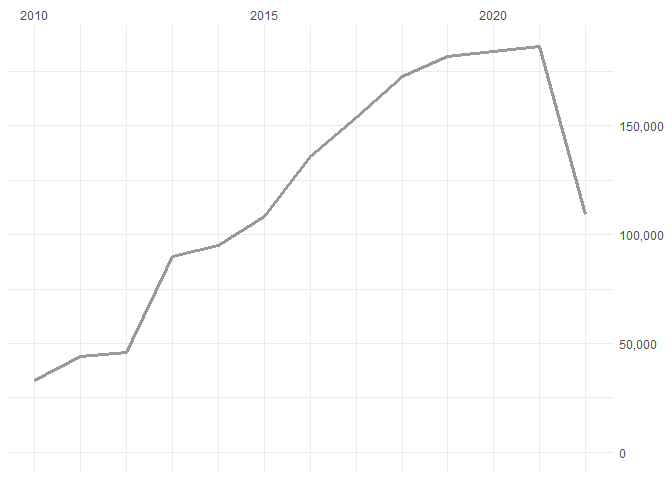
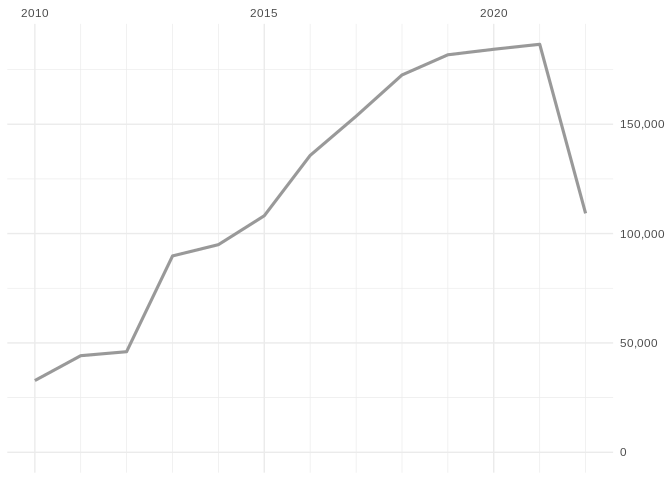
updating data and report

diff --git a/readme.md b/readme.md
@@ -3,25 +3,25 @@
 
 ## Summary
 
-Rendering on 2022-07-31 03:52:50.
+Rendering on 2022-07-31 18:39:02.
 
 ![](figures/unnamed-chunk-1-1.png)<!-- -->![](figures/unnamed-chunk-1-2.png)<!-- -->![](figures/unnamed-chunk-1-3.png)<!-- -->
 
-| fecha_hora |       n |
-|:-----------|--------:|
-| 2022-01-01 | 109,238 |
-| 2021-01-01 | 186,549 |
-| 2020-01-01 | 184,271 |
-| 2019-01-01 | 181,752 |
-| 2018-01-01 | 172,525 |
-| 2017-01-01 | 153,675 |
-| 2016-01-01 | 135,735 |
-| 2015-01-01 | 108,158 |
-| 2014-01-01 |  94,942 |
-| 2013-01-01 |  89,788 |
-| 2012-01-01 |  45,987 |
-| 2011-01-01 |  44,171 |
-| 2010-01-01 |  32,808 |
-| 2009-01-01 |      15 |
-| 2008-01-01 |     335 |
-| 2006-01-01 |     240 |
+| fecha\_hora |       n |
+| :---------- | ------: |
+| 2022-01-01  | 109,238 |
+| 2021-01-01  | 186,549 |
+| 2020-01-01  | 184,271 |
+| 2019-01-01  | 181,752 |
+| 2018-01-01  | 172,525 |
+| 2017-01-01  | 153,675 |
+| 2016-01-01  | 135,735 |
+| 2015-01-01  | 108,158 |
+| 2014-01-01  |  94,942 |
+| 2013-01-01  |  89,788 |
+| 2012-01-01  |  45,987 |
+| 2011-01-01  |  44,171 |
+| 2010-01-01  |  32,808 |
+| 2009-01-01  |      15 |
+| 2008-01-01  |     335 |
+| 2006-01-01  |     240 |
